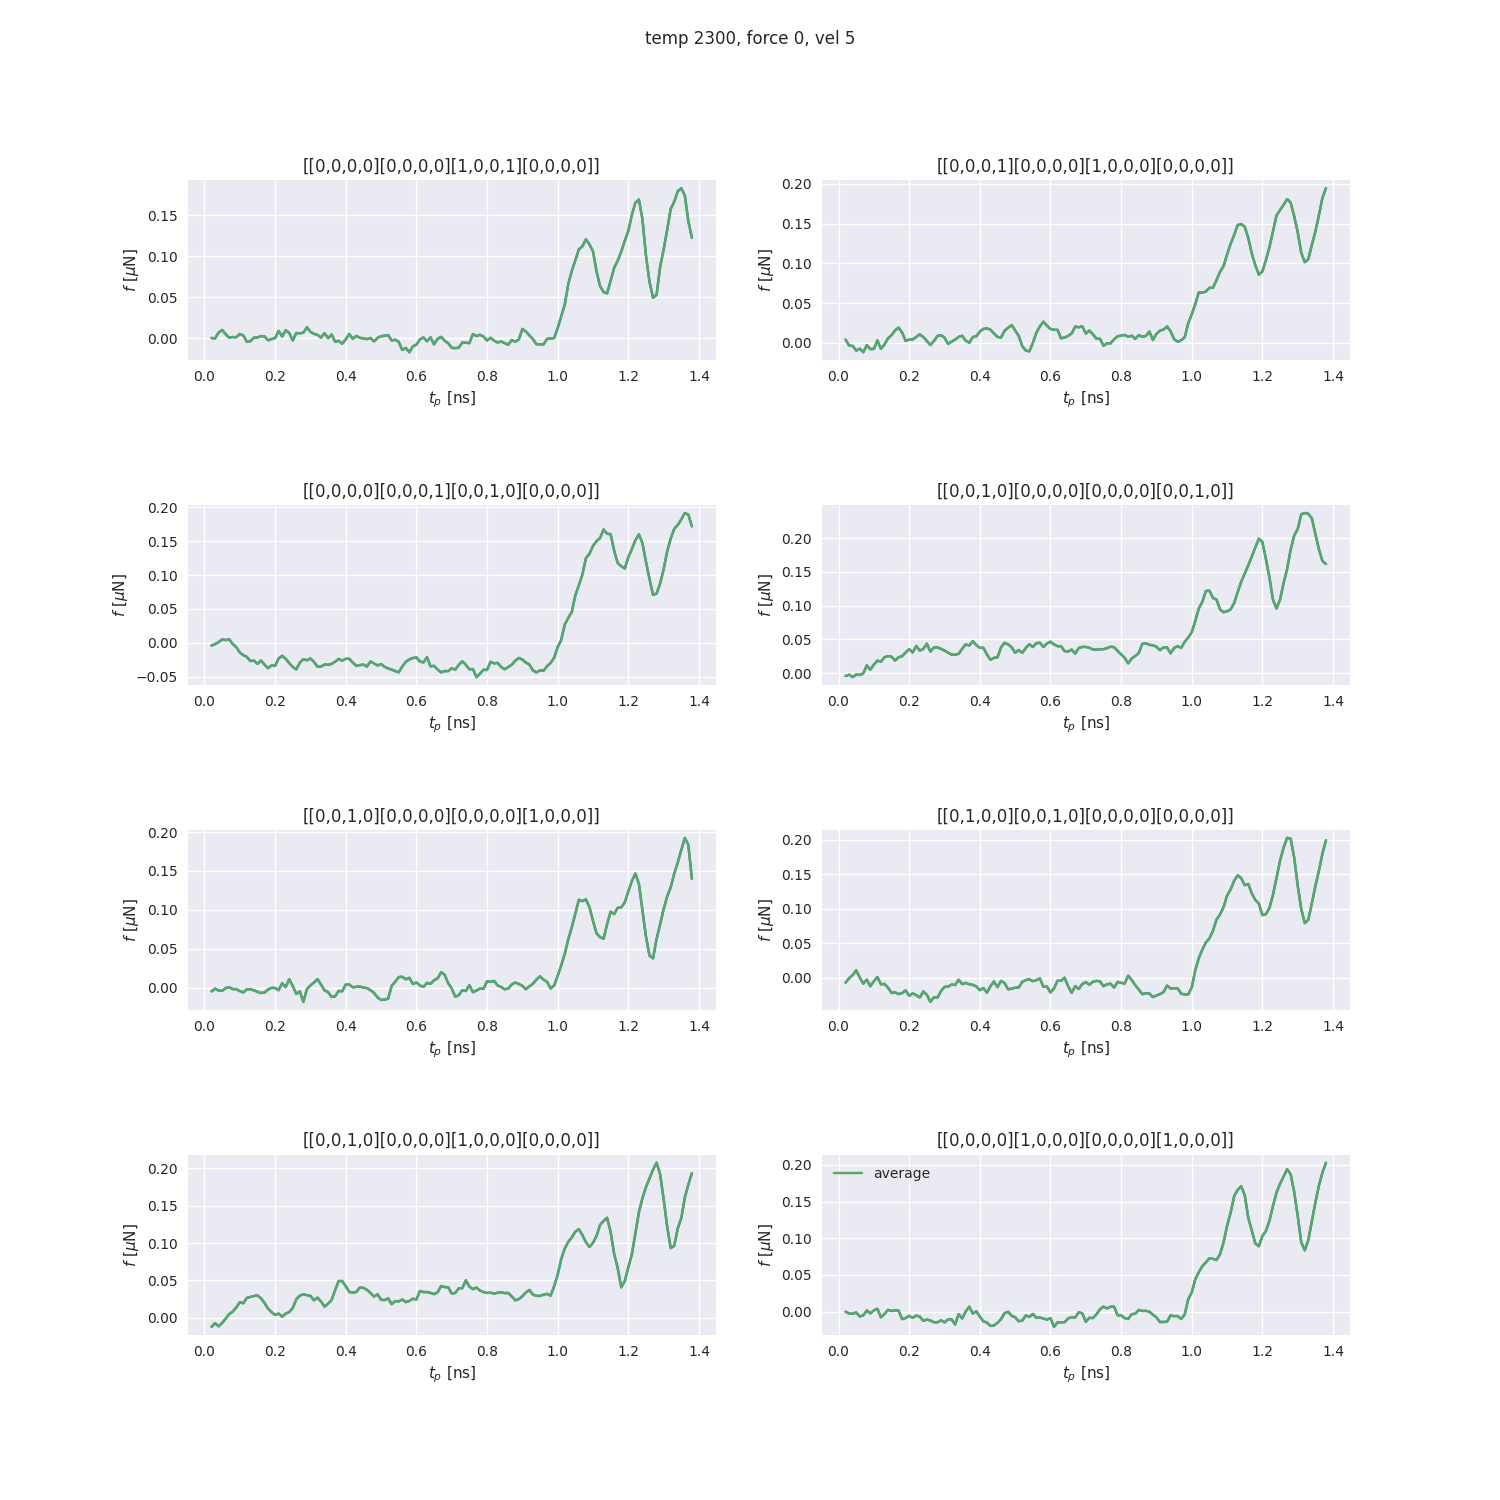
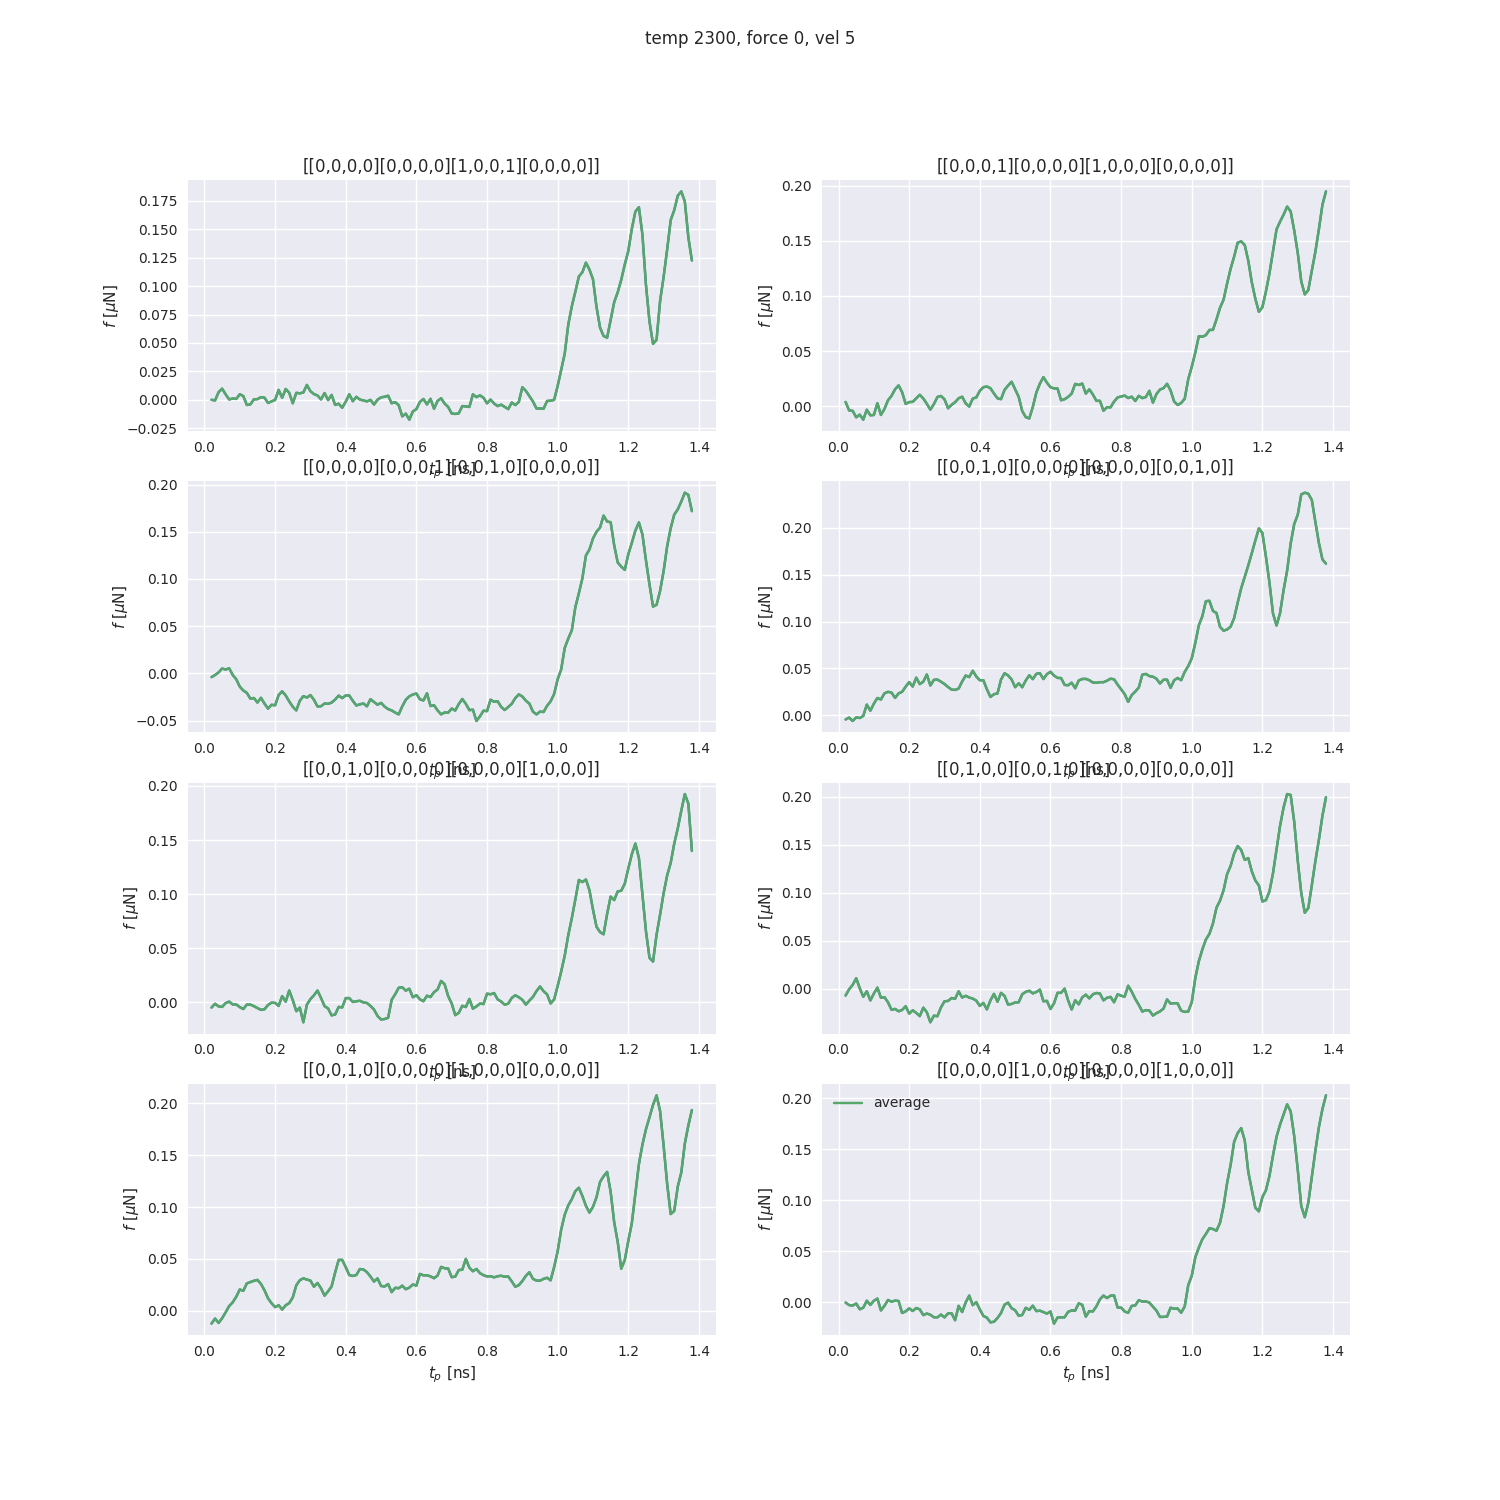
whitespace adjust

diff --git a/python/plot/plot_load_curves.py b/python/plot/plot_load_curves.py
@@ -410,7 +410,7 @@ def plot_production(temp, vel, force, uc, asperities, time, orientation, grid, e
         axs[i].set_xlabel(r"$t_p$ [ns]")
         axs[i].set_ylabel(r"$f$ [$\mu$N]")
         axs[i].set_title(man_init[i])
-    plt.subplots_adjust(hspace=0.8)
+    plt.subplots_adjust(hspace=0.2)
     plt.suptitle(f"temp {temp}, force {force}, vel {vel}")
     plt.legend()
     plt.savefig(fig_dir + 'production_varying_initnum_2asp_first10.png')
